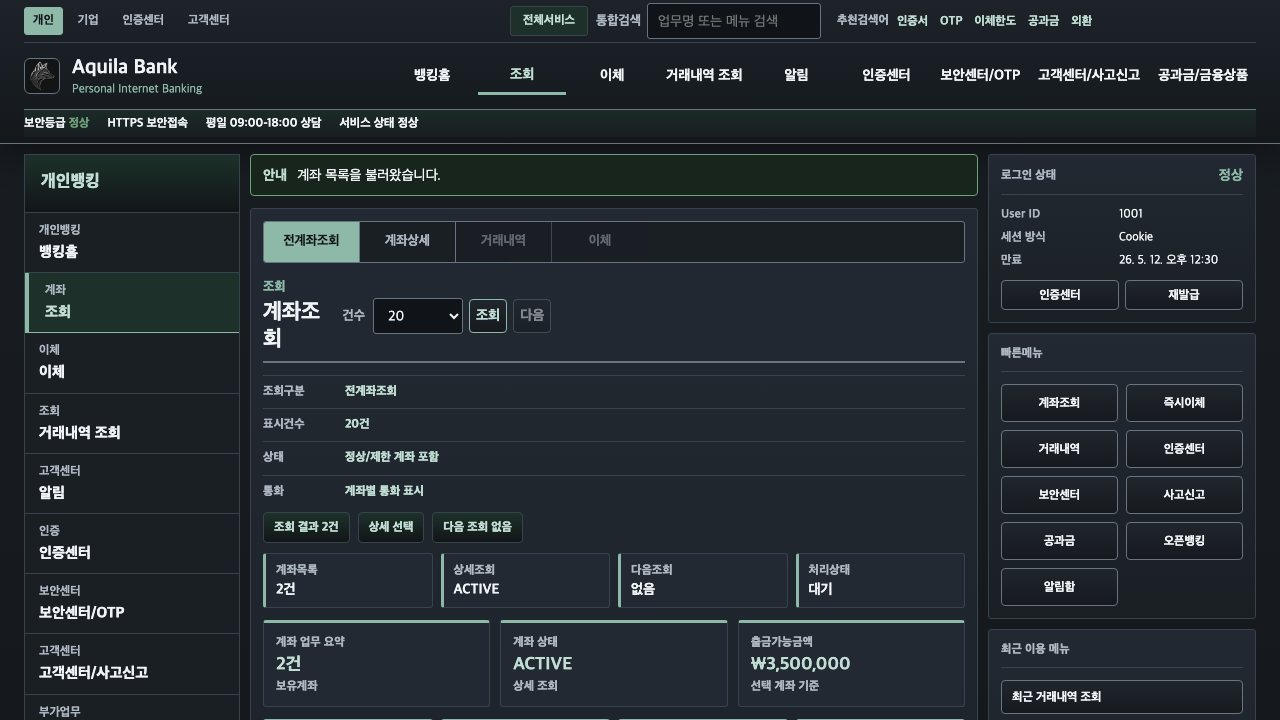
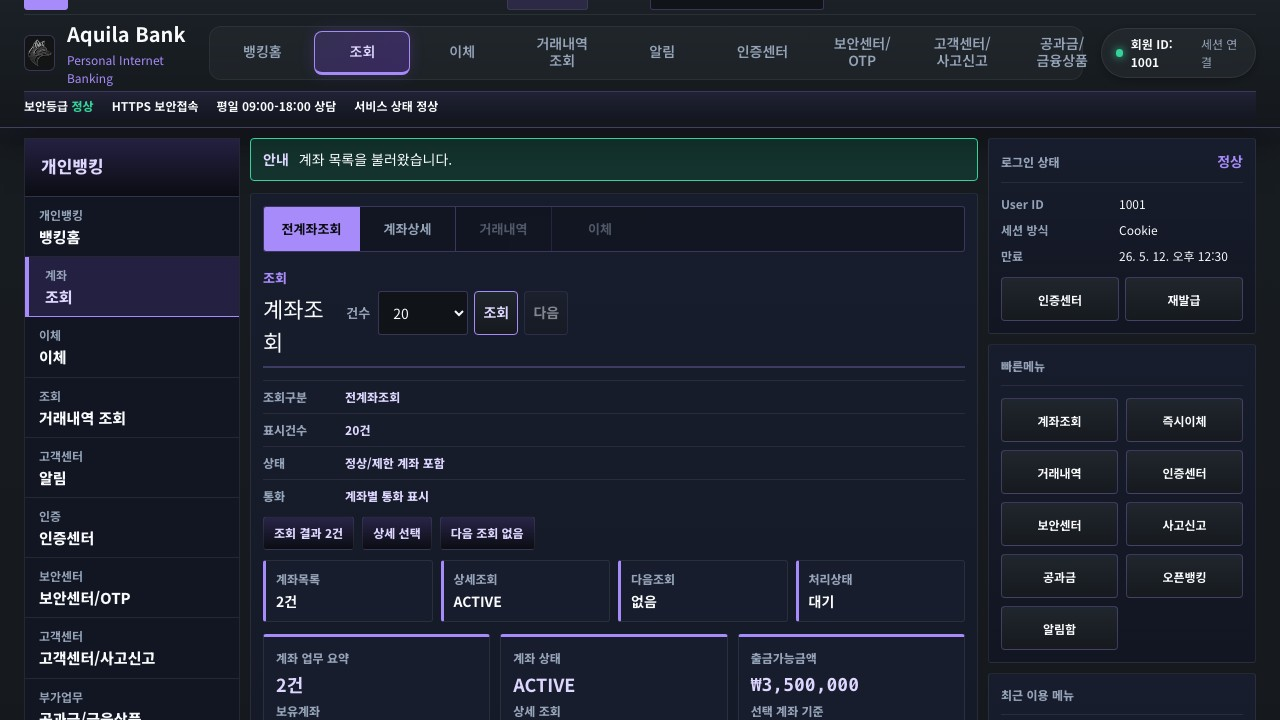
docs(readme): update documentation and refresh screenshots for modern UI
- Update README.md to document ordered row locking deadlock prevention, modern UI design refresh, operational metrics dashboard, and verification gates.
- Refresh customer banking screenshots in docs/assets/ with modern Lavender and Charcoal styling.
- Add operational monitoring metrics dashboard screenshot to docs/assets/.
- Adjust mobile header styling in customer-banking.css to satisfy visual layout bounds.

Closes #1011

diff --git a/front/src/styles/customer-banking.css b/front/src/styles/customer-banking.css
@@ -2752,7 +2752,10 @@ label span {
     overflow: auto;
   }
 
-  .utility-right,
+  .header-user-chip {
+    display: none;
+  }
+
   .search-field {
     grid-template-columns: 1fr;
   }
@@ -2778,7 +2781,10 @@ label span {
     max-width: 100%;
     overflow-x: auto;
     scroll-snap-type: x proximity;
+    border: 0;
     border-top: 1px solid var(--line);
+    border-radius: 0;
+    padding: 0;
     scrollbar-width: thin;
   }
 

diff --git a/README.md b/README.md
@@ -19,6 +19,7 @@
   <img src="https://img.shields.io/badge/Java-21-f89820?style=flat-square&logo=openjdk&logoColor=white" alt="Java 21" />
   <img src="https://img.shields.io/badge/Spring_Boot-4.x-6DB33F?style=flat-square&logo=springboot&logoColor=white" alt="Spring Boot 4" />
   <img src="https://img.shields.io/badge/Next.js-14-000000?style=flat-square&logo=next.js&logoColor=white" alt="Next.js 14" />
+  <img src="https://img.shields.io/badge/Tailwind_CSS-3.4-38B2AC?style=flat-square&logo=tailwind-css&logoColor=white" alt="Tailwind CSS 3.4" />
   <img src="https://img.shields.io/badge/PostgreSQL-18-4169E1?style=flat-square&logo=postgresql&logoColor=white" alt="PostgreSQL 18" />
   <img src="https://img.shields.io/badge/Kafka-4.0-231F20?style=flat-square&logo=apachekafka&logoColor=white" alt="Kafka 4.0" />
   <img src="https://img.shields.io/badge/OCI-A1_Flex-F80000?style=flat-square&logo=oracle&logoColor=white" alt="OCI A1 Flex" />
@@ -82,37 +83,39 @@
 
 | 기능 | 설명 | 기술 포인트 |
 | --- | --- | --- |
-| 계좌 관리 | 계좌 생성, 상태 관리, 잔액 조회 | 계좌 상태 정책, snapshot 점검/복구 데모 |
-| 내부 이체 | 송금, preview, 부분 취소, 한도/잔액/상태 검증 | command idempotency, 원장 감사 추적 |
-| 거래 조회 | 계좌별 거래 목록과 상세 조회 | keyset pagination, covering index, timeout |
+| 계좌 관리 | 계좌 생성, 상태 관리, 잔액 조회 | 계좌 상태 정책, snapshot 점검/복구 데모, 대표 계좌 글로우 카드 |
+| 내부 이체 | 송금, preview, 부분 취소, 한도/잔액/상태 검증, **동시 양방향 교차 이체 데드락 방지** | command idempotency, 원장 감사 추적, **Ordered Row Locking** |
+| 거래 조회 | 계좌별 거래 목록과 상세 조회 | keyset pagination, covering index, card-based table, timeout |
 | 인증/보안 | JWT access token, refresh token session, MFA TOTP | session revoke, backup code, remember device |
 | 고객 신청 | 신청 접수, 조회, 취소, 운영자 검토/승인/실행 | 상태 전이 감사, mock webhook boundary |
 | 알림 | 알림 inbox, unread projection, SSE stream | outbox retry, Kafka 선택 publish, replay |
-| 운영 도구 | 내부 admin API, recovery action, metric/exporter | audit search, admission control, DLQ/redrive |
+| 운영 도구 | 내부 admin API, recovery action, **실시간 운영 지표 및 배치 모니터링 대시보드** | audit search, admission control, DLQ/redrive, **Outbox·원장 실시간 감시** |
 
-### 실제 고객뱅킹 화면
+### 실제 화면 (UI Refresh)
 
-메인 화면에서 메뉴와 통합검색 흐름을 먼저 확인할 수 있고, 계좌/이체/거래내역 같은 보호 업무는 인증 상태에 맞춰 분리합니다.
+프런트엔드는 다크 뉴트럴 차콜(`--bg-page: #0B0D13`) 배경, 시그니처 라벤더(`--accent-lavender: #A78BFA`) 글로우 하이라이트, 마이크로그리드 패턴(`bg-micro-grid`) 및 고정폭 모노스페이스 숫자(`JetBrains Mono`, `tabular-nums`)가 적용된 모던 뱅킹 디자인 시스템으로 구성되어 있습니다.
+
+메인 화면에서 대표 계좌 요약 카드와 메뉴 통합검색 흐름을 먼저 확인할 수 있고, 계좌/이체/거래내역 같은 보호 업무는 세션 상태에 맞춰 분리합니다.
 
 ![Aquila Bank customer banking search](docs/assets/readme-customer-banking-search.jpg)
 
-로그인 후에는 전계좌조회, 즉시이체, 거래내역 keyset 조회, 인증센터 세션 관리, 고객센터 신청 상태를 같은 고객뱅킹 shell 안에서 처리합니다.
+로그인 후에는 전계좌조회, 즉시이체, 거래내역 keyset 조회, 인증센터 세션 관리, 고객센터 신청 상태를 통일된 디자인 시스템 shell 안에서 처리합니다.
 
 #### 계좌조회
 
-보유 계좌 목록, 계좌 상태, 출금 가능 금액을 한 화면에서 확인하고 선택 계좌 기준으로 상세 조회를 이어갈 수 있습니다.
+보유 계좌 목록, 계좌 상태, 출금 가능 금액을 한 화면에서 확인하고 선택 계좌 기준으로 상세 조회를 이어갈 수 있습니다. 출금 가능 잔액 카드에는 시그니처 라벤더 글로우와 모노스페이스 숫자가 적용되어 금액 식별성을 높였습니다.
 
 ![Aquila Bank customer banking account list](docs/assets/readme-customer-banking-accounts.jpg)
 
 #### 즉시이체
 
-받는 분 확인, 이체 확인, OTP 확인, 완료증 출력까지 이어지는 내부 이체 흐름을 보여줍니다.
+받는 분 확인, 이체 확인, OTP 확인, 완료증 출력까지 이어지는 내부 이체 흐름을 보여줍니다. 반응형 인터랙티브 계좌 스왑(맞바꿈) 버튼과 퀵 금액 선택 위젯(+1만, +5만, +10만, +100만, 정정)을 통해 빠르고 직관적인 송금 경험을 제공합니다.
 
 ![Aquila Bank customer banking transfer receipt](docs/assets/readme-customer-banking-transfer.jpg)
 
 #### 거래내역 조회
 
-계좌, 기간, 상태, 금액 조건을 입력하고 keyset cursor 기준으로 다음 페이지를 이어 조회하는 대량 조회 UX입니다.
+계좌, 기간, 상태, 금액 조건을 입력하고 keyset cursor 기준으로 다음 페이지를 이어 조회하는 대량 조회 UX입니다. 카드 기반 Keyset 테이블과 행 호버 트랜지션, 소프트 시맨틱 상태 뱃지를 제공합니다.
 
 ![Aquila Bank customer banking transaction search](docs/assets/readme-customer-banking-transactions.jpg)
 
@@ -127,6 +130,12 @@
 사고신고와 고객 신청 접수 상태를 조회하고, 운영자 검토와 mock/webhook boundary를 확인하는 화면입니다.
 
 ![Aquila Bank customer banking application status](docs/assets/readme-customer-banking-application.jpg)
+
+#### 운영 지표 및 배치 상태 모니터링 대시보드
+
+실시간 이벤트 Outbox 대기열(지연 건수 및 릴레이 처리율), DLQ/격리 이벤트, 원장 스냅샷 드리프트 감지, Stale 멱등성 락 상태 및 일일 원장 대사/릴레이 배치 데몬 상태를 점검하는 운영 콘솔 모니터링 대시보드입니다.
+
+![Aquila Bank operations metrics dashboard](docs/assets/readme-ops-monitoring.jpg)
 
 ## 시스템 아키텍처
 
@@ -161,7 +170,7 @@
 
 ## 주요 프로세스
 
-### 1. 거래 정합성 경계
+### 1. 거래 정합성 경계 및 동시성 제어
 
 도메인은 Spring, JPA, web, SDK 구현에 의존하지 않습니다. 송금 흐름은 잔액 검증, 한도 정책, 원장 기록, 감사 추적을 같은 업무 경계로 보고, inbound/outbound adapter는 `global`에 둡니다.
 
@@ -171,6 +180,7 @@
 | 원장 우선 | 송금 결과는 잔액 변경뿐 아니라 감사 가능한 원장 흐름으로 설명합니다. |
 | idempotency | 재시도 상황에서 같은 command가 중복 실행되지 않도록 경계를 둡니다. |
 | audit trail | 상태 변경과 운영자 조작은 추적 가능한 기록으로 남깁니다. |
+| **데드락 방지 (Ordered Row Locking)** | **동시 양방향 교차 송금(A→B, B→A) 시 계좌 ID를 오름차순(Natural Order)으로 정렬하여 balance snapshot 및 계좌 행 락(SELECT FOR UPDATE)을 순차 획득함으로써 순환 대기(Circular Wait) 데드락을 원천 차단합니다.** |
 
 ### 2. 1억 건 거래 조회 경로
 
@@ -202,7 +212,16 @@ small page response / timeout / admission control
 | SSE fan-out | reconnect gap은 bounded replay와 pull API 재동기화로 보완합니다. |
 | DLQ/redrive | 실패 event는 운영 API로 확인하고 재처리 경로를 둡니다. |
 
-### 4. Evidence 기반 성능 판단
+### 4. 실시간 운영 지표 및 배치 상태 감시
+
+운영 콘솔은 금융 시스템의 건전성을 실시간으로 확인하고 자동화된 배치 상태를 점검합니다.
+
+- **이벤트 Outbox 대기열**: 지연 건수 및 릴레이 처리율을 실시간 추적하여 메시지 큐 적체를 사전에 감지합니다.
+- **DLQ 및 격리 이벤트**: 재시도 상한을 초과한 이벤트를 격리 보관하고 운영자가 즉시 재처리(Redrive)할 수 있습니다.
+- **원장 스냅샷 일일 대사**: 원장 잔액과 snapshot drift 불일치를 실시간 점검하며, 매일 일일 대사 배치가 자동 동기화 가드를 수행합니다.
+- **멱등성 락 관리**: 비정상 중단된 Stale 멱등성 락을 주기적인 정리 배치를 통해 해제하여 연속 이체 차단을 방지합니다.
+
+### 5. Evidence 기반 성능 판단
 
 성능 개선 PR은 live artifact를 기준으로 판단합니다.
 
@@ -210,7 +229,7 @@ small page response / timeout / admission control
 - synthetic fixture pass, mock evidence, harness-only pass는 성능 개선 증거로 보지 않습니다.
 - shell script, workflow, evidence harness 수정은 병목 확인을 막는 차단 사유가 있을 때만 최소 범위로 진행합니다.
 
-### 5. Delivery flow
+### 6. Delivery flow
 
 ```text
 issue -> docs/agent brief -> branch from main -> commit plan -> push -> PR to main
@@ -228,13 +247,13 @@ GitHub Actions CI -> main merge -> staging auto deploy -> production manual prom
 
 | 영역 | 스택 |
 | --- | --- |
-| Frontend | Next.js 14, React 18, TypeScript |
+| Frontend | Next.js 14, React 18, TypeScript, Tailwind CSS, PostCSS, Lucide Icons |
 | Backend | Spring Boot 4, Java 21, Spring Security, JDBC, Flyway |
 | Data | PostgreSQL 18 |
-| Event / Async | Kafka 4.0, Outbox, SSE |
+| Event / Async | Kafka 4.0 (KRaft), Outbox, SSE |
 | Edge / Ops | Nginx, Docker Compose, OCI A1 Flex, GitHub Actions |
-| Observability / Load Test | Prometheus, Grafana, k6, Postgres exporter |
-| Quality | Gradle check, Spotless, JaCoCo, Testcontainers, Next lint |
+| Observability / Load Test | Prometheus, Grafana, k6, Postgres exporter, Ops Console Dashboard |
+| Quality | Gradle check, Spotless, SpotBugs, JaCoCo, Testcontainers, Playwright E2E, UI Contract Tests, Next lint |
 
 ## 프로젝트 구조
 
@@ -339,23 +358,27 @@ NEXT_PUBLIC_API_BASE_URL=http://localhost:8080 PORT=3001 yarn --cwd front dev
 ./back/gradlew -p back check
 ```
 
-- unit/slice test, Testcontainers integration test, query plan gate, JaCoCo coverage verification, Spotless check를 포함합니다.
+- 단위/슬라이스 테스트, Testcontainers 통합 테스트, 동시 교차 이체 데드락 방지 검증(`JdbcTransferConcurrencyDeadlockIntegrationTest`), 쿼리 플랜 회귀 게이트, JaCoCo 커버리지, SpotBugs, Spotless 포맷 체크를 포함합니다.
 - 같은 워크트리에서 backend 검증을 병렬 실행할 때는 `tools/test/with-resource-lock.sh`로 직렬화합니다.
 
 ### Frontend
 
 ```bash
 yarn --cwd front lint
+yarn --cwd front build
 ```
 
-### Frontend contract
+### Frontend Contract & Visual E2E
 
 ```bash
-yarn --cwd front test:login-runtime
 yarn --cwd front test:ui-contract
+yarn --cwd front test:login-runtime
+yarn --cwd front test:e2e:visual
+yarn --cwd front test:e2e:live-artifacts
+yarn --cwd front test:e2e:authenticated
 ```
 
-프런트 contract 검증은 서버가 없어도 실행할 수 있습니다. 실제 로그인 데모는 백엔드가 실행된 상태에서 확인합니다.
+- 프런트 contract 및 정적 검증은 독립 실행 가능하며, Playwright 기반 E2E 및 Visual QA를 통해 모바일/데스크톱 반응형 3열 구조, 레이아웃 바운더리, 접근성 및 라이브 아티팩트 생성을 결정론적으로 검증합니다.
 
 ### Load / Evidence
 
